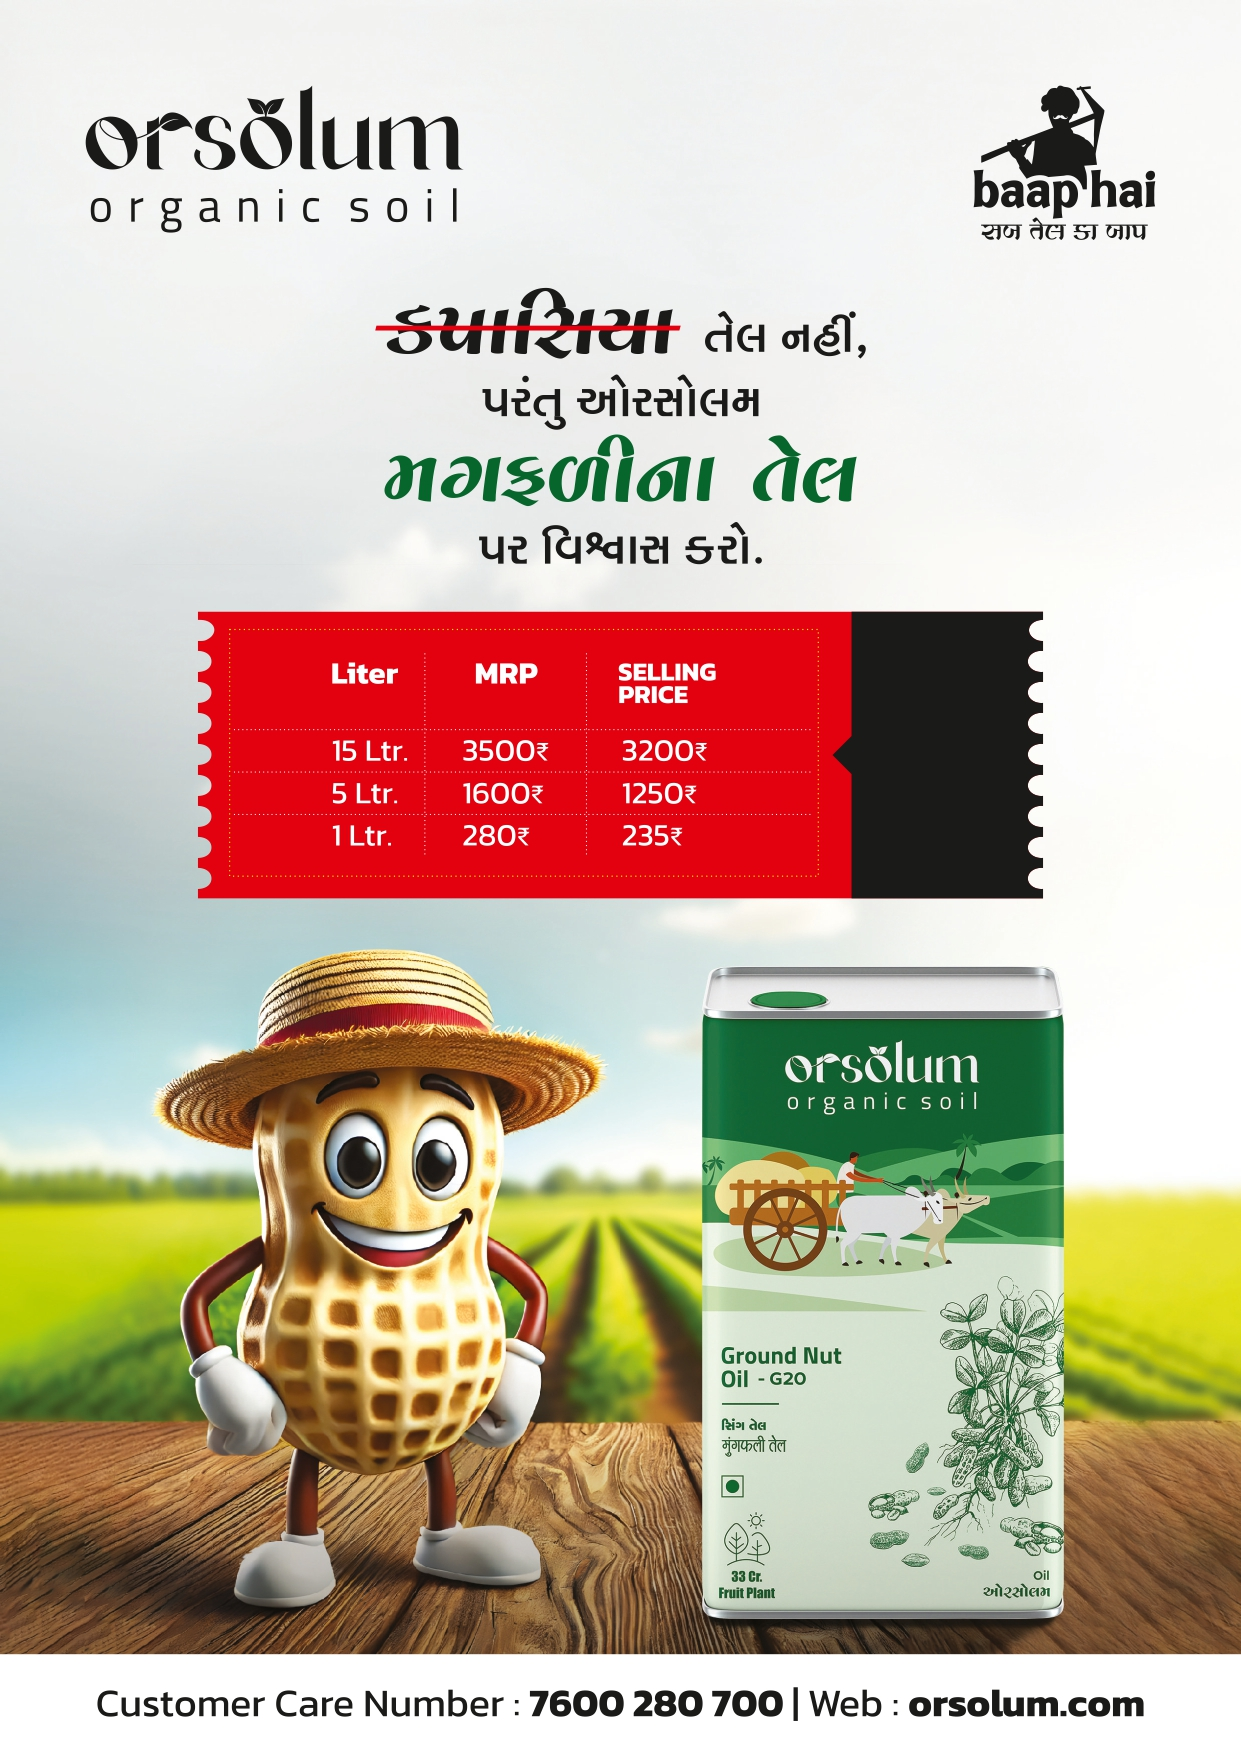
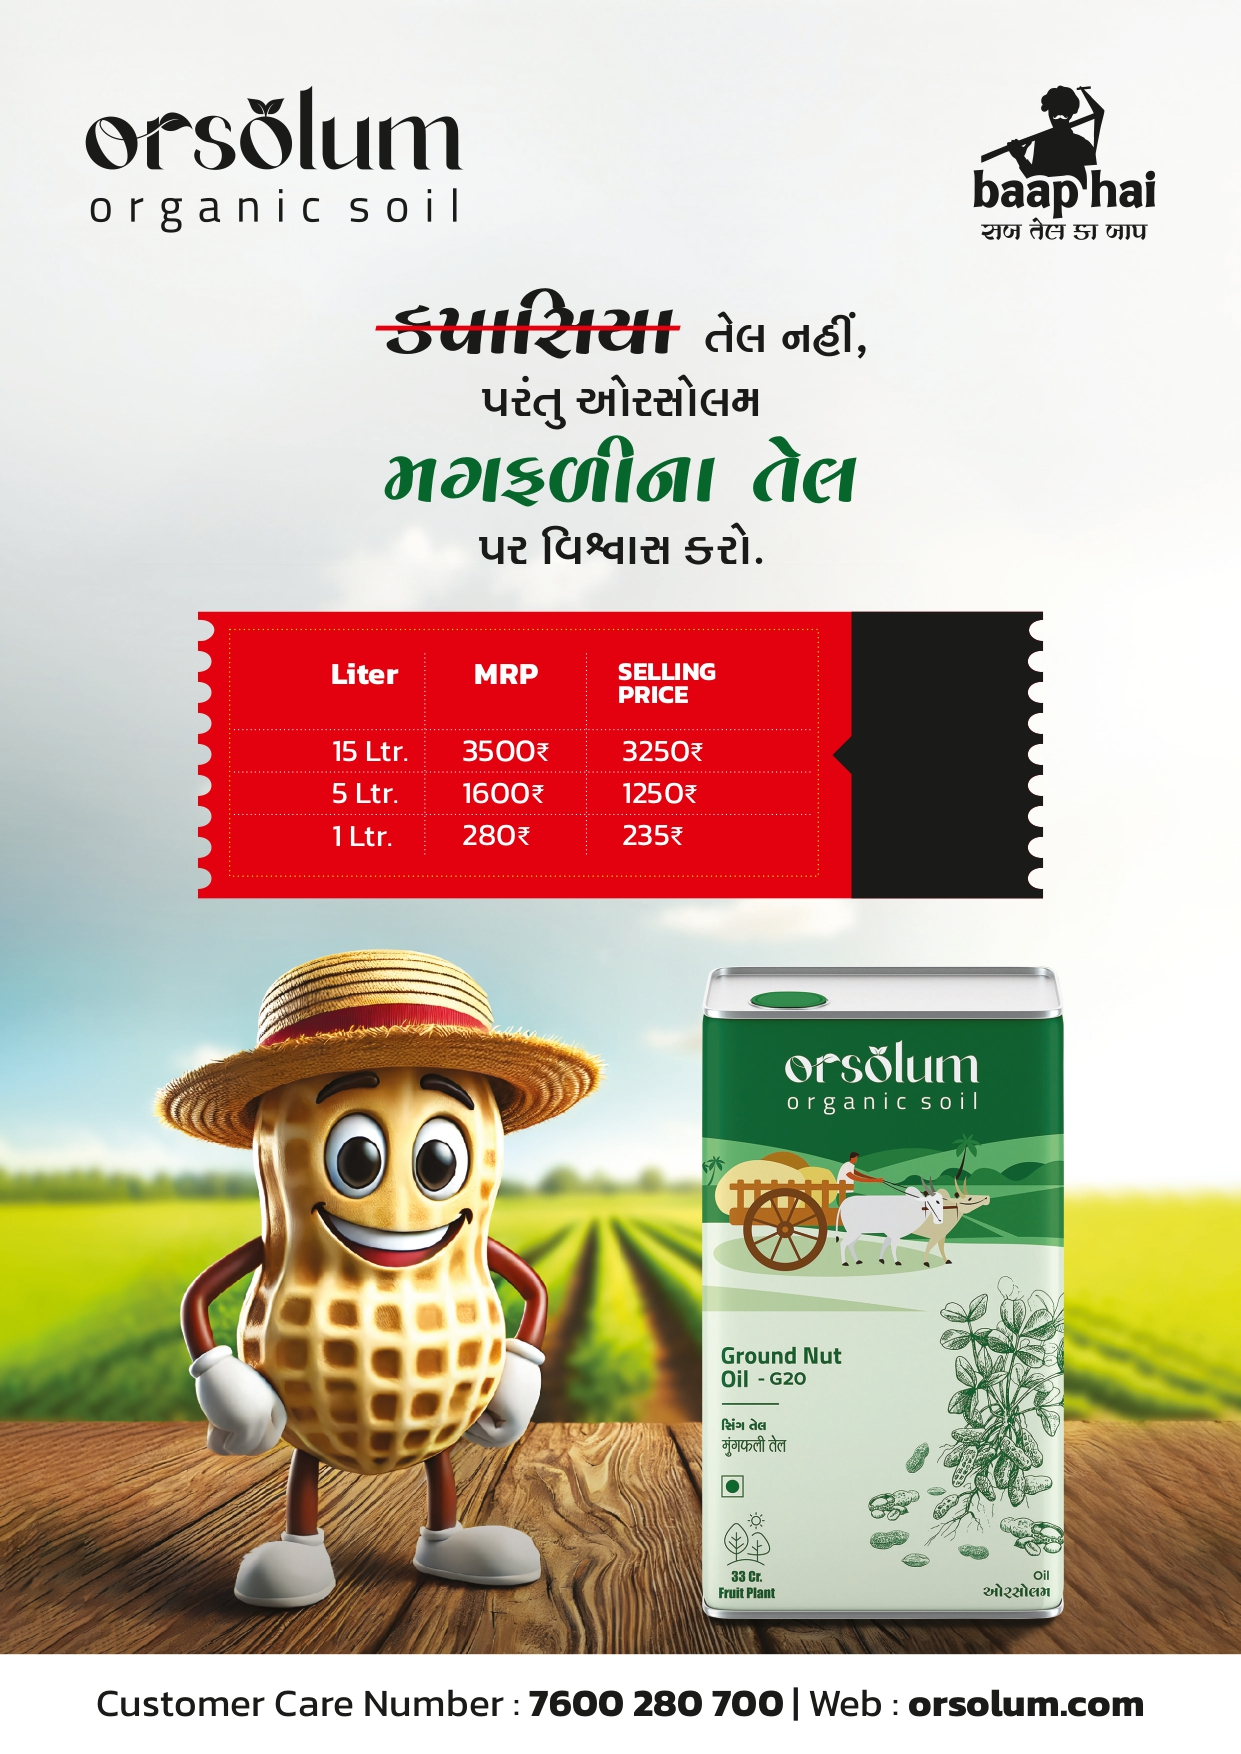
price change

diff --git a/index.html b/index.html
@@ -475,7 +475,7 @@ textarea.form-control {
                         <h2 class="product-title kanit-extrabold ">Orsolum Oil – Groundnut (G20)</h2>
                         <p class="product-meta kanit-semibold">Orsolum groundnut oil - 100% pure G20 oil, no chemicals, no additives, no cholesterol</p>
                         <div class="d-flex align-items-center gap-3 mt-2">
-                            <span class="price kanit-bold">₹ 3200</span>
+                            <span class="price kanit-bold">₹ 3250</span>
                             <span class="text-muted kanit-medium">15L </span>
                         </div>
                         <div class="product-cta">
